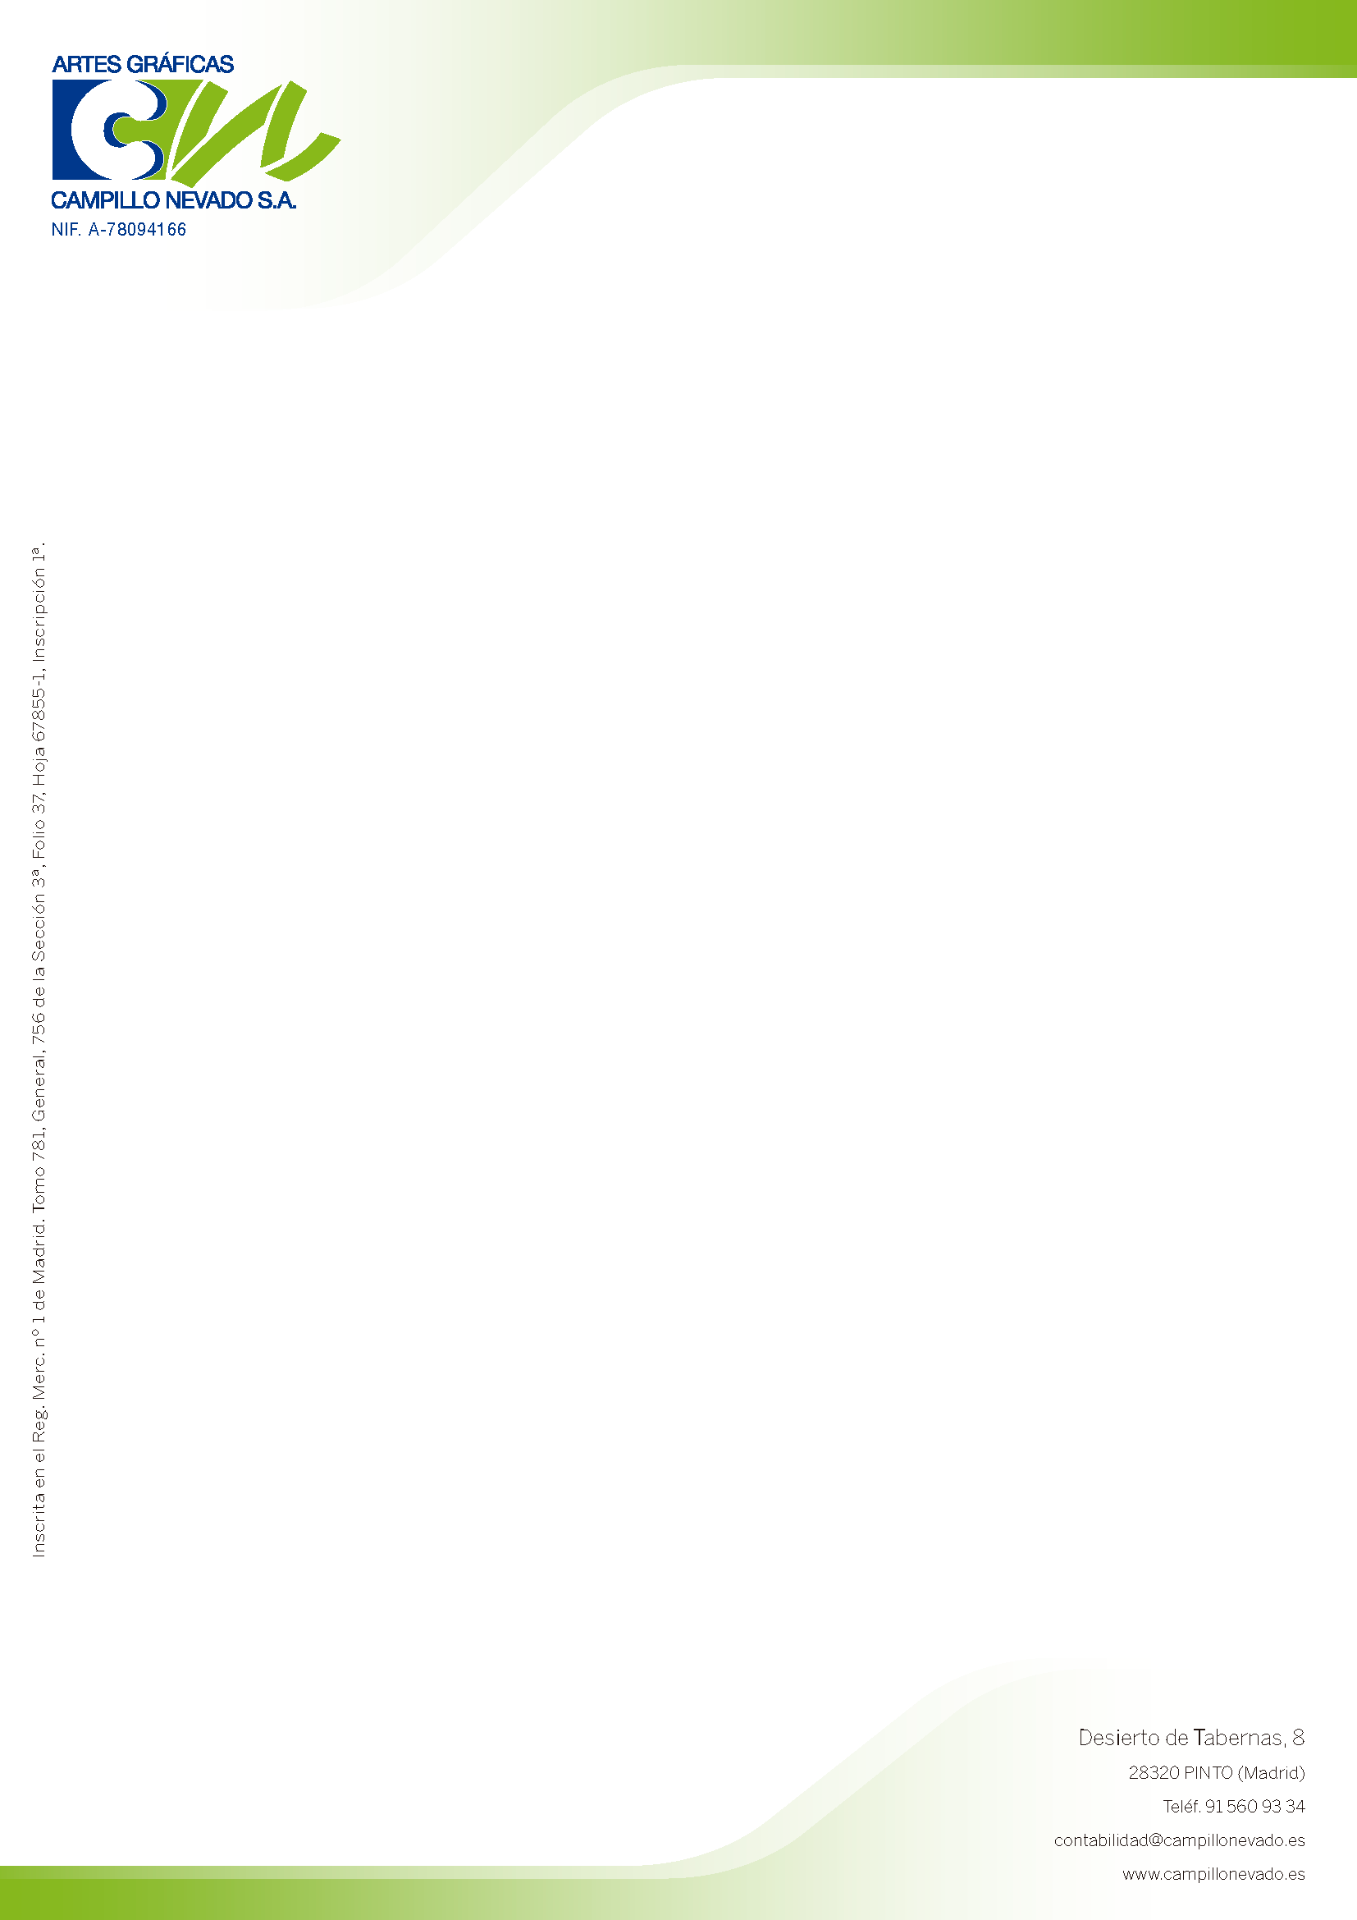
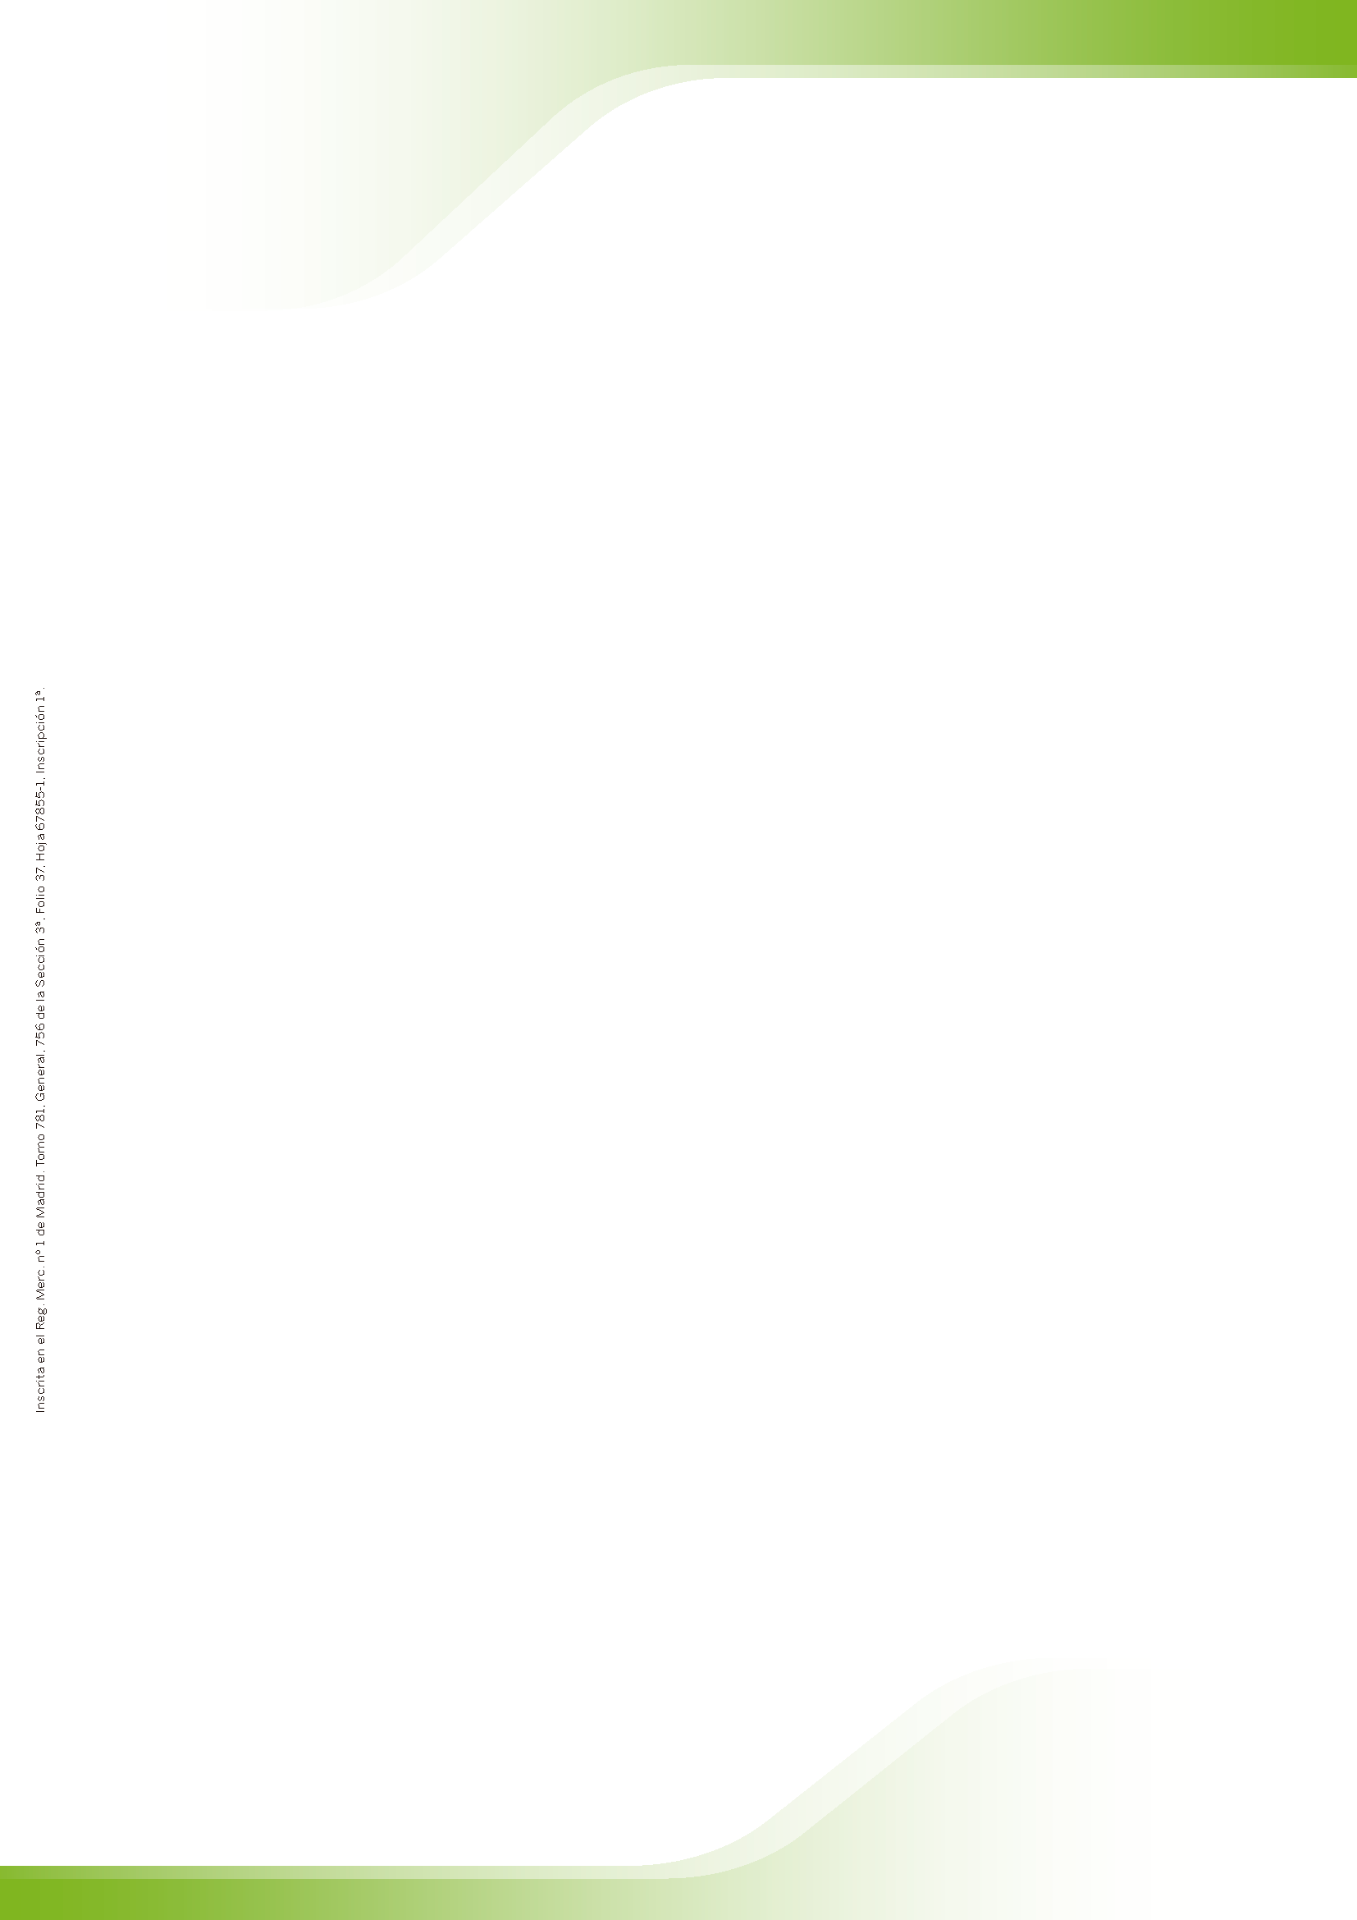
Changes

Changed region(s): [[0.031, 0.0312, 0.2476, 0.125], [0.8357, 0.9062, 0.9595, 0.9688]]

diff --git a/src/components/templates/Template7.tsx b/src/components/templates/Template7.tsx
@@ -27,6 +27,21 @@ export default function Template7({ data }: Template7Props) {
 
   return (
     <div data-template7-page style={PAGE_STYLE}>
+      {/* Background image */}
+      <img
+        src="/assets/campillo-page1-bg.png?v=20260224b"
+        alt=""
+        style={{
+          position: 'absolute',
+          top: 0,
+          left: 0,
+          width: '210mm',
+          height: '296mm',
+          objectFit: 'cover',
+          zIndex: 0,
+          pointerEvents: 'none',
+        }}
+      />
       <style>{`
         [data-template7-page] [data-logo-container] img {
           margin: 0 !important;
@@ -54,7 +69,7 @@ export default function Template7({ data }: Template7Props) {
       )}
 
       {/* Cabecera: Solo Logo */}
-      <div data-logo-container style={{ margin: 0, padding: '12px 20px 0', display: 'flex', alignItems: 'flex-start', justifyContent: 'flex-start' }}>
+      <div data-logo-container style={{ margin: 0, padding: '12px 20px 0', display: 'flex', alignItems: 'flex-start', justifyContent: 'flex-start', position: 'relative', zIndex: 1 }}>
         <img
           src="/assets/campillo-logo.png?v=20260224c"
           alt="Campillo Nevado"
@@ -64,7 +79,7 @@ export default function Template7({ data }: Template7Props) {
       </div>
 
       {/* Contenido */}
-      <div style={{ padding: '5px 20px 0' }}>
+      <div style={{ padding: '5px 20px 0', position: 'relative', zIndex: 1 }}>
         {/* Info presupuesto + cliente */}
         <div style={{ display: 'flex', justifyContent: 'space-between', marginBottom: '14px', alignItems: 'flex-start' }}>
           <div>
@@ -220,6 +235,7 @@ export default function Template7({ data }: Template7Props) {
           color: '#555',
           lineHeight: '1.5',
           textAlign: 'right',
+          zIndex: 1,
         }}
       >
         <p style={{ margin: 0, fontWeight: 'bold', fontSize: '10px', color: '#1a3a5c' }}>CAMPILLO NEVADO S.L.</p>

diff --git a/src/utils/pdfGenerator.ts b/src/utils/pdfGenerator.ts
@@ -522,7 +522,7 @@ export const generateQuotePDF = async (
     const pdfWidth = pdf.internal.pageSize.getWidth();
     const pdfHeight = pdf.internal.pageSize.getHeight();
 
-    const isTemplate7 = false;
+    const isTemplate7 = config.selectedTemplate === 7;
 
     if (hasMultiplePages) {
       // Multi-page template: render each top-level child as a separate PDF page
